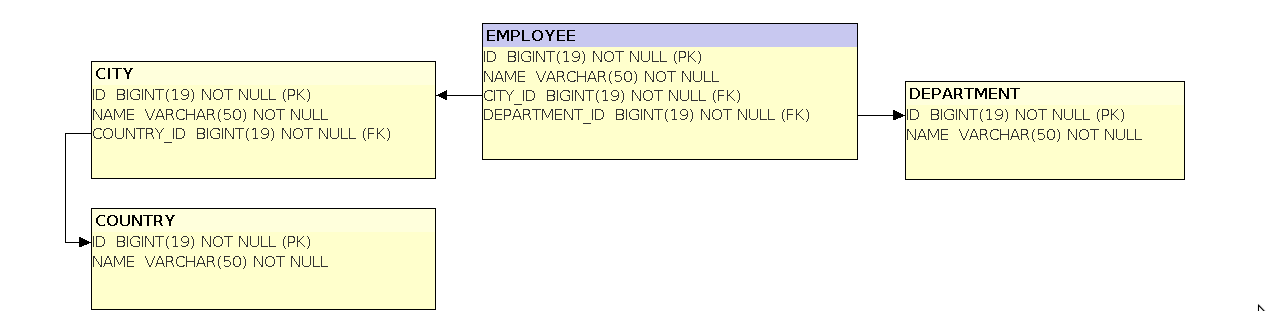
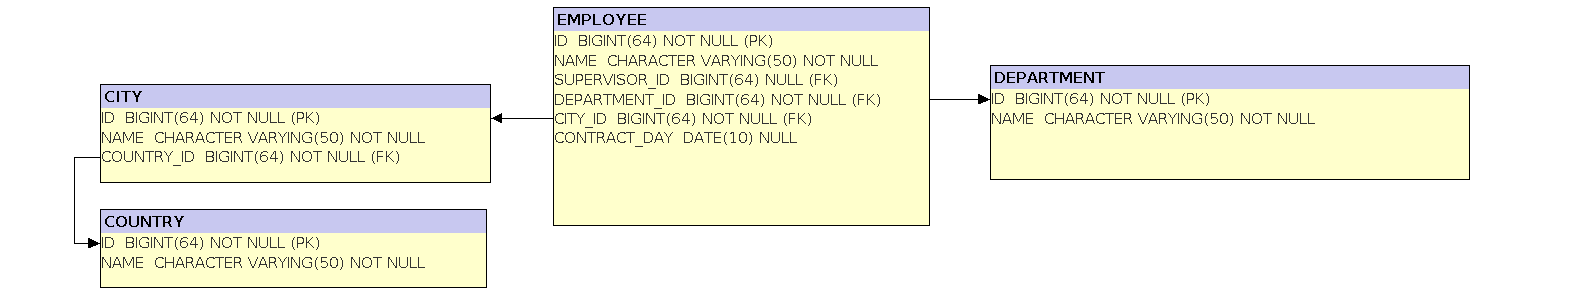
Code cleaning

diff --git a/src/main/kotlin/net/ponec/demo/ktorm/service/KtormServiceImpl.kt b/src/main/kotlin/net/ponec/demo/ktorm/service/KtormServiceImpl.kt
@@ -7,6 +7,7 @@ import org.ktorm.dsl.*
 import org.ktorm.entity.*
 import org.springframework.stereotype.Service
 import org.springframework.transaction.annotation.Transactional
+import java.time.LocalDate
 import kotlin.collections.mutableListOf as mutableListOf1
 
 /** Ktorm service implementation */
@@ -24,48 +25,56 @@ class KtormServiceImpl(
     /** Return all employess by the Entity model. */
     @Transactional
     override fun findAllEmployeesByEntity(): List<EmployeeDto> {
-        val result = mutableListOf1<EmployeeDto>()
-
-        val employees: Sequence<Employee> = database.employees
+        val result = database
+            .sequenceOf(Employees, withReferences = true) // or simply: employees
+            // TODO:pop How to join related entities?
             .filter { it.departmentId greaterEq 0L }
-            .sortedBy { it.id.asc() }
-            .drop(0) // limit
-            .take(10) // offset
-            .asKotlinSequence()
+            .sortedBy { it.name }
+            //.sortedBy { Cities.name.asc() } // TODO:pop How to sort result by related columns?
+            .take(10) // limit
+            .drop(0)  // offset
+            .asKotlinSequence() // optional
+            .map {
+                EmployeeDto(
+                    id = it.id,
+                    name = it.name,
+                    supervisor = it.supervisor?.name,
+                    city = it.city.name,
+                    country = it.city.country.name,
+                    department = it.department.name,
+                    contractDay = it.contractDay
+                )
+            }
+            .toList()
 
-        employees.forEach { employee ->
-            println(">>> ${employee.id}: ${employee.name} ${employee.city.country.name}")
-
-            val employeeDto = EmployeeDto(
-                id = employee.id,
-                name = employee.name,
-                city = employee.city.name,
-                country = employee.city.country.name,
-                department = employee.department.name
-            )
-            result.add(employeeDto)
-        }
         return result
     }
 
     /** Return all employess by the Table model. */
     @Transactional
     override fun findAllEmployeesByTable(): List<EmployeeDto> {
+        val supervisor = Employees.aliased("supervisor")
         val result = database
             .from(Employees)
-            .innerJoin(Departments, on = Employees.departmentId eq Departments.id)
-            .innerJoin(Cities, on = Employees.cityId eq Cities.id)
-            .innerJoin(Countries, on = Cities.countryId eq Countries.id)
+            .innerJoin(Departments, on = Departments.id eq Employees.departmentId)
+            .innerJoin(Cities, on = Cities.id eq Employees.cityId)
+            .innerJoin(Countries, on = Countries.id eq Cities.countryId)
+            //.innerJoin(supervisor, on = supervisor[Employees.id] eq Employees.supervisorId) // TODO:pop How to circle relations?
             .select()
             .limit(offset = 0, 50)
             .where { Employees.departmentId greaterEq 0L }
-            .map {  EmployeeDto(
-                id = it[Employees.id] ?: 0L,
-                name = it[Employees.name] ?: "",
-                department = it[Departments.name] ?: "",
-                city = it[Cities.name] ?: "",
-                country =  it[Countries.name] ?: "",
-            )}
+            .orderBy(Cities.name.asc(), Employees.name.asc())
+            .map {
+                EmployeeDto(
+                    id = it[Employees.id] ?: 0L,
+                    name = it[Employees.name] ?: "",
+                    supervisor = /*it[superiors.name] ?:*/ "?",  // TODO:pop how to read a superior name?
+                    department = it[Departments.name] ?: "",
+                    city = it[Cities.name] ?: "",
+                    country = it[Countries.name] ?: "",
+                    contractDay = it[Employees.contractDay], // nullable
+                )
+            }
             .toList()
 
         return result
@@ -100,19 +109,26 @@ class KtormServiceImpl(
             name = "Catherine"
             city = myCity
             department = myDepartment
+            supervisor = null
+            contractDay = LocalDate.of(2020, 2, 10)
         }
 
         val employee2 = Employee {
             name = "Lucy"
             city = myCity
             department = myDepartment
+            supervisor = employee1
+            contractDay = LocalDate.of(2020, 2, 11)
         }
 
-        val employee3 = Employee {
-            name = "Elisabeth"
-            city = myCity
-            department = myDepartment
-        }
+        // A different approach to create object:
+        val employee3 = Entity.create<Employee>() // or Entity()
+        employee3.name = "Elisabeth"
+        employee3.city = myCity
+        employee3.department = myDepartment
+        employee3.supervisor = employee1
+        employee3.contractDay = LocalDate.of(2020, 2, 12)
+
 
         database.countries.add(myCountry)
         database.cities.add(myCity)

diff --git a/src/main/kotlin/net/ponec/demo/exposed/service/ExposedServiceImpl.kt b/src/main/kotlin/net/ponec/demo/exposed/service/ExposedServiceImpl.kt
@@ -7,7 +7,7 @@ import org.springframework.context.event.ContextRefreshedEvent
 import org.springframework.context.event.EventListener
 import org.springframework.stereotype.Service
 import org.springframework.transaction.annotation.Transactional
-import kotlin.collections.mutableListOf as mutableListOf1
+import java.time.LocalDate
 import net.ponec.demo.ktorm.service.KtormService as KtormDataService
 
 
@@ -42,8 +42,8 @@ class ExposedServiceImpl(
      * See: https://github.com/JetBrains/Exposed
      */
     @Transactional
-    override fun findAllEmployees(): List<EmployeeDto> {
-        val result = mutableListOf1<EmployeeDto>()
+    override fun findAllEmployeesByEntity(): List<EmployeeDto> {
+        val result = mutableListOf<EmployeeDto>()
         val employeeQuery = Employees
             .innerJoin(Cities)
             .innerJoin(Countries)
@@ -53,7 +53,10 @@ class ExposedServiceImpl(
                         Countries.name.isNotNull()
             }
             .limit(50, offset = 0)
-            .orderBy(Employees.id to SortOrder.ASC)
+            .orderBy(
+                Cities.name to SortOrder.ASC,
+                Employees.name to SortOrder.ASC
+            )
         val employees = Employee.wrapRows(employeeQuery)
 
         employees.forEach { employee ->
@@ -63,11 +66,47 @@ class ExposedServiceImpl(
                 id = employee.id.value,
                 name = employee.name,
                 city = employee.city.name,
+                supervisor = employee.supervisor?.name,
                 country = employee.city.country.name,
-                department = employee.department.name
+                department = employee.department.name,
+                contractDay = employee.contractDay
             )
             result.add(employeeDto)
         }
+        return result
+    }
+
+    /** Alias tutorial: https://github.com/JetBrains/Exposed/wiki/DSL#alias */
+    @Transactional
+    override fun findAllEmployeesByTable(): List<EmployeeDto> {
+        val supervisor = Employees.alias("supervisor")
+        val result = Employees
+            .innerJoin(Departments)
+            .innerJoin(Cities)
+            .innerJoin(Countries)
+            .innerJoin(supervisor, { Employees.id }, { supervisor[Employees.id] })
+            .select {
+                Employees.id greaterEq 1L and
+                        Employees.name.isNotNull() and
+                        Countries.name.isNotNull()
+            }
+            .limit(50, offset = 0)
+            .orderBy(
+                Cities.name to SortOrder.ASC,
+                Employees.name to SortOrder.ASC
+            )
+            .map {
+                EmployeeDto(
+                    id = it[Employees.id].value,
+                    name = it[Employees.name],
+                    supervisor = it[supervisor[Employees.name]], // TODO:pop How to get a name of the superior?
+                    city = it[Cities.name],
+                    country = it[Countries.name],
+                    department = it[Departments.name],
+                    contractDay = it[Employees.contractDay],
+                )
+            }
+            .toList()
         return result
     }
 
@@ -91,18 +130,24 @@ class ExposedServiceImpl(
             name = "George"
             city = cityObj
             department = departmentObj
+            supervisor = null
+            contractDay = LocalDate.of(2020, 1, 1)
         }
 
         val employee2 = Employee.new {
             name = "Francis"
             city = cityObj
             department = departmentObj
+            supervisor = employee1
+            contractDay = LocalDate.of(2020, 1, 2)
         }
 
         val employee3 = Employee.new {
             name = "Joseph"
             city = cityObj
             department = departmentObj
+            supervisor = employee1
+            contractDay = LocalDate.of(2020, 1, 3)
         }
 
         println("Users: $employee1, $employee2, $employee3")

diff --git a/src/main/kotlin/net/ponec/demo/controller/DemoRest.kt b/src/main/kotlin/net/ponec/demo/controller/DemoRest.kt
@@ -18,21 +18,28 @@ class DemoRest(
     }
 
     /** Call an Exposed service.
-     * URL: http://localhost:8080/employees  */
-    @GetMapping(value = ["employeesExp"])
-    fun findAllEmployees(): List<EmployeeDto> {
-        return exposedService.findAllEmployees()
+     * URL: http://localhost:8080/employeesExpByEntity */
+    @GetMapping(value = ["employeesExpByEntity"])
+    fun findAllEmployeesByEntity(): List<EmployeeDto> {
+        return exposedService.findAllEmployeesByEntity()
+    }
+
+    /** Call an Exposed service.
+     * URL: http://localhost:8080/employeesExpByTable */
+    @GetMapping(value = ["employeesExpByTable"])
+    fun findAllEmployeesByTable(): List<EmployeeDto> {
+        return exposedService.findAllEmployeesByTable()
     }
 
     /** Call a Ktorm service.
-     * URL: http://localhost:8080/employees2  */
+     * URL: http://localhost:8080/employeesKtormByEntity  */
     @GetMapping(value = ["employeesKtormByEntity"])
     fun findAllEmployees2(): List<EmployeeDto> {
         return ktormService.findAllEmployeesByEntity()
     }
 
     /** Call a Ktorm service.
-     * URL: http://localhost:8080/employees2  */
+     * URL: http://localhost:8080/employeesKtormByTable  */
     @GetMapping(value = ["employeesKtormByTable"])
     fun findAllEmployees3(): List<EmployeeDto> {
         return ktormService.findAllEmployeesByTable()

diff --git a/src/main/kotlin/net/ponec/demo/exposed/entity/Employee.kt b/src/main/kotlin/net/ponec/demo/exposed/entity/Employee.kt
@@ -4,14 +4,17 @@ import org.jetbrains.exposed.dao.Entity
 import org.jetbrains.exposed.dao.EntityClass
 import org.jetbrains.exposed.dao.id.EntityID
 import org.jetbrains.exposed.dao.id.LongIdTable
+import org.jetbrains.exposed.sql.javatime.date
 
 /** Table
  * see : https://github.com/JetBrains/Exposed/wiki/DAO
  * see :  https://stackoverflow.com/questions/66109368/kotlin-exposed-create-entity-with-reference */
 object Employees : LongIdTable("employee") {
     val name = varchar("name", 50)
-    val cityId = reference("city_id", Cities.id)
+    val supervisorId = reference("supervisor_id", Employees.id).nullable()
     val departmentId = reference("department_id", Departments.id)
+    val cityId = reference("city_id", Cities.id)
+    val contractDay = date("contract_day").nullable()
 }
 
 /** Entity */
@@ -21,6 +24,8 @@ class Employee(
     companion object : EntityClass<Long, Employee>(Employees)
 
     var name by Employees.name
-    var city by City referencedOn Employees.cityId
+    var supervisor by Employee optionalReferencedOn Employees.supervisorId
     var department by Department referencedOn Employees.departmentId
+    var city by City referencedOn Employees.cityId
+    var contractDay by Employees.contractDay
 }

diff --git a/src/main/kotlin/net/ponec/demo/ktorm/entity/Employee.kt b/src/main/kotlin/net/ponec/demo/ktorm/entity/Employee.kt
@@ -4,8 +4,10 @@ import org.ktorm.database.Database
 import org.ktorm.entity.Entity
 import org.ktorm.entity.sequenceOf
 import org.ktorm.schema.Table
+import org.ktorm.schema.date
 import org.ktorm.schema.long
 import org.ktorm.schema.varchar
+import java.time.LocalDate
 
 
 /** Entity
@@ -15,17 +17,20 @@ interface Employee : Entity<Employee> {
 
     var id: Long
     var name: String
-    var city: City
+    var supervisor: Employee?
     var department: Department
+    var city: City
+    var contractDay: LocalDate?
 }
-
 
 /** Table */
 object Employees : Table<Employee>("employee") {
     val id = long("id").primaryKey().bindTo { it.id }
     val name = varchar("name").bindTo { it.name }
-    val cityId = long("city_id").references(Cities) { it.city }
+    val supervisorId = long("supervisor_id").bindTo { it.supervisor?.id }  // pop: No reference() ?
     val departmentId = long("department_id").references(Departments) { it.department }
+    val cityId = long("city_id").references(Cities) { it.city }
+    val contractDay = date("contract_day").bindTo { it.contractDay }
 }
 
 /**

diff --git a/src/main/resources/static/index.html b/src/main/resources/static/index.html
@@ -12,7 +12,8 @@
 
     <h1 class="mb-3">Demo REST by Kotlin with ORM</h1>
     <ul>
-        <li><a href="employeesExp">Exposed</a></li>
+        <li><a href="employeesExpByEntity">Exposed by entity model</a></li>
+        <li><a href="employeesExpByTable">Exposed by table model</a></li>
         <li><a href="employeesKtormByEntity">Ktorm by entity model</a></li>
         <li><a href="employeesKtormByTable">Ktorm by table model</a></li>
     </ul>

diff --git a/src/main/kotlin/net/ponec/demo/exposed/service/ExposedService.kt b/src/main/kotlin/net/ponec/demo/exposed/service/ExposedService.kt
@@ -5,7 +5,10 @@ import net.ponec.demo.controller.EmployeeDto
 
 interface ExposedService {
 
-    /** Return all employes */
-    fun findAllEmployees() : List<EmployeeDto>
+    /** Return all employes by entity */
+    fun findAllEmployeesByEntity() : List<EmployeeDto>
+
+    /** Return all employes by table */
+    fun findAllEmployeesByTable(): List<EmployeeDto>
 }
 

diff --git a/src/main/kotlin/net/ponec/demo/controller/EmployeeDto.kt b/src/main/kotlin/net/ponec/demo/controller/EmployeeDto.kt
@@ -1,10 +1,14 @@
 package net.ponec.demo.controller
 
+import java.time.LocalDate
+
 /** DTO object */
 class EmployeeDto(
     var id: Long,
     var name: String,
+    var supervisor: String?,
     var city: String,
     var country: String,
     var department: String,
+    var contractDay: LocalDate?
 )

diff --git a/src/main/kotlin/net/ponec/demo/ktorm/entity/Country.kt b/src/main/kotlin/net/ponec/demo/ktorm/entity/Country.kt
@@ -10,6 +10,7 @@ import org.ktorm.schema.varchar
 /** Entity */
 interface Country : Entity<Country> {
     companion object : Entity.Factory<Country>()
+
     var id: Long
     var name: String
 }

diff --git a/README.md b/README.md
@@ -23,5 +23,5 @@ Apache License, Version 2.0
 
 
 1. [Exposed tutorial](https://github.com/JetBrains/Exposed/wiki/DAO)
-2. [Ktorm tutorial](https://www.ktorm.org/en/schema-definition.html)
+2. [Ktorm tutorial](https://www.ktorm.org/en/entities-and-column-binding.html)
 3. [How we use Kotlin with Exposed at TouK](https://touk.pl/blog/2019/02/12/how-we-use-kotlin-with-exposed-at-touk/) (blog)
